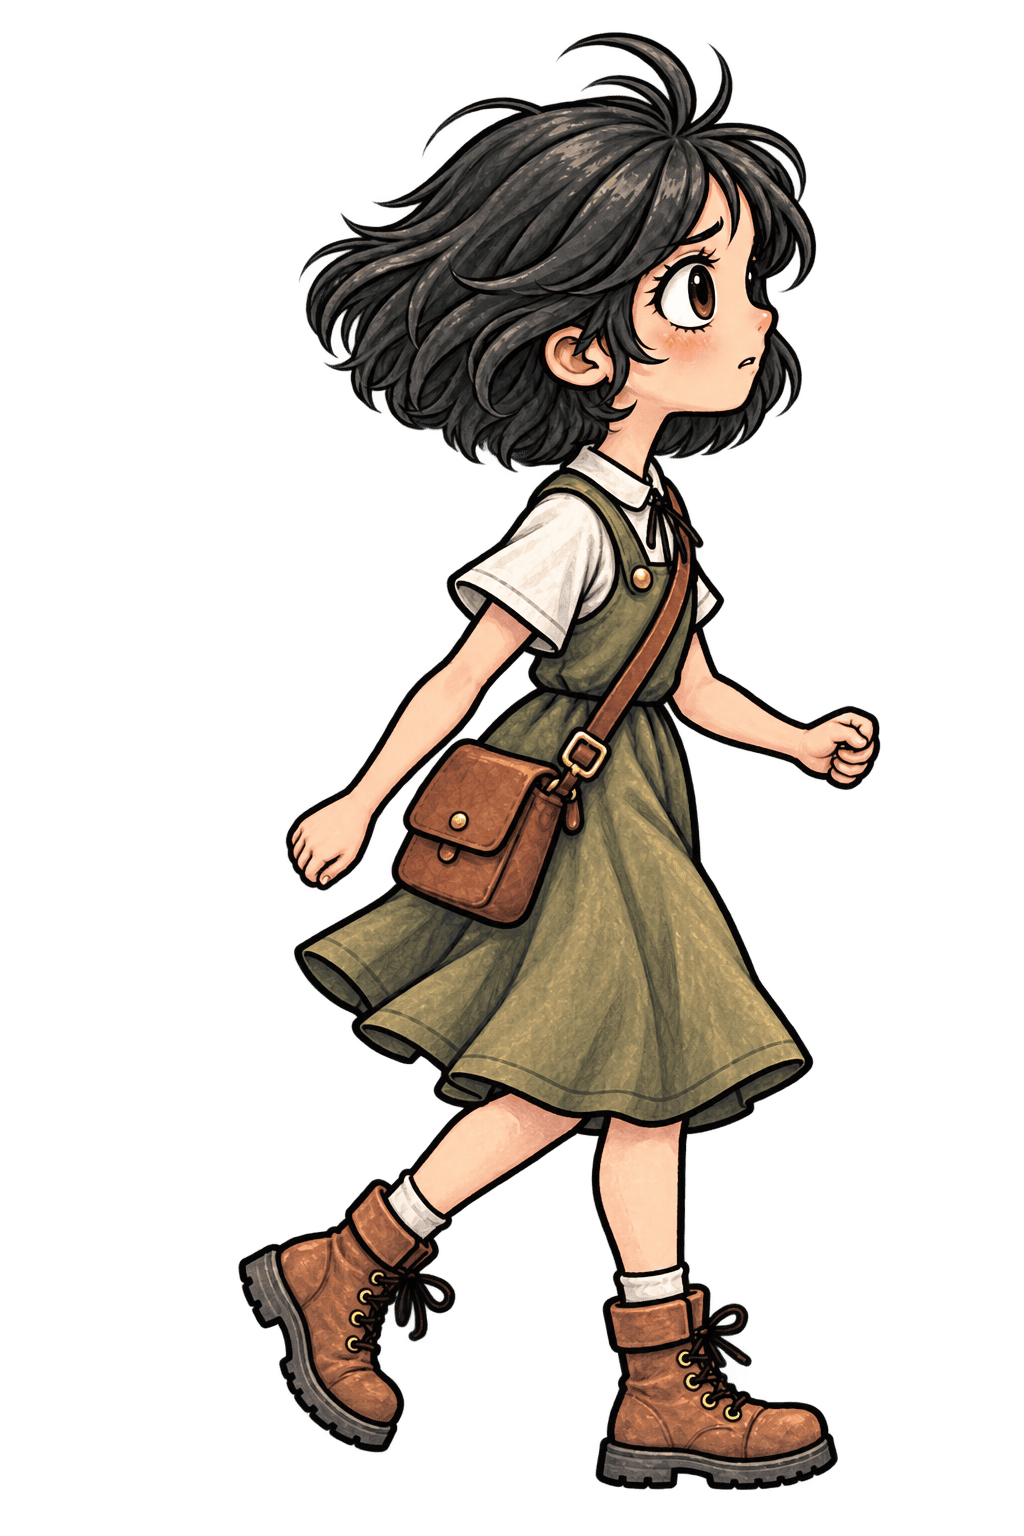
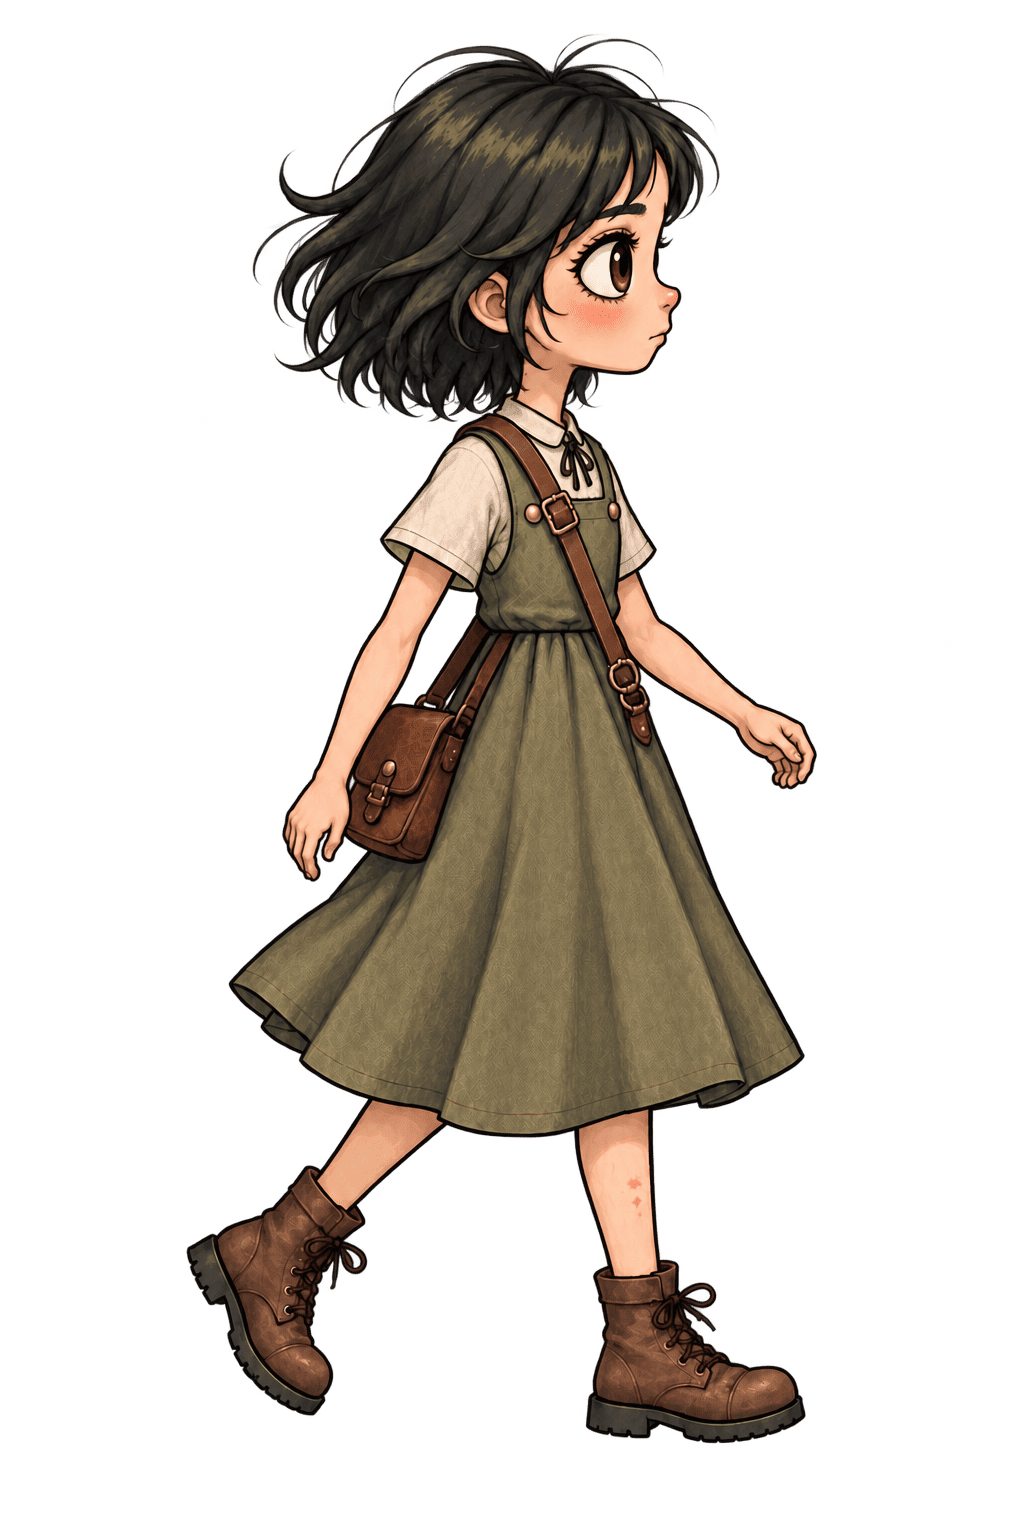
歩くアニメーションを修正

diff --git a/survival-game/app.js b/survival-game/app.js
@@ -255,15 +255,21 @@ const CHARACTER_ANIMATIONS = {
       'images/character_walk2.png',
       'images/character_walk3.png',
       'images/character_walk4.png',
-      'images/character_walk5.png'
+      'images/character_walk5.png',
+      'images/character_walk4.png',
+      'images/character_walk3.png',
+      'images/character_walk2.png'
     ],
 
     durations: [
-      300,
-      300,
-      300,
-      300,
-      300
+      140,
+      140,
+      140,
+      140,
+      140,
+      140,
+      140,
+      140
     ]
   },
 
